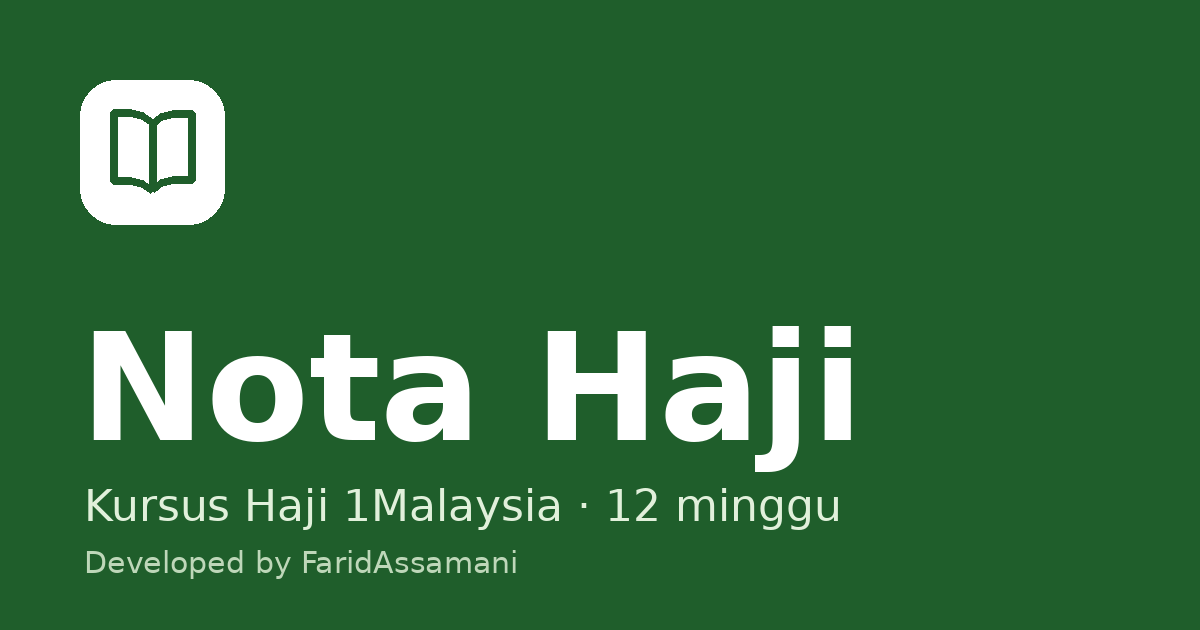
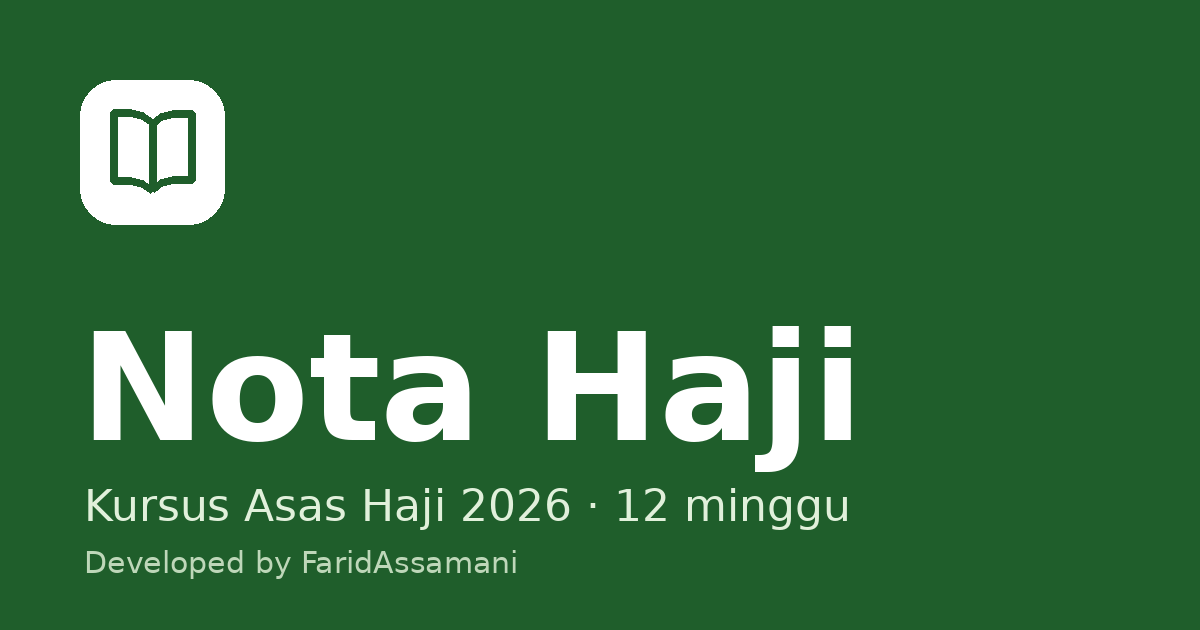
Tukar nama kursus kepada Kursus Asas Haji 2026 (app, kad pratonton, gambar)
Claude-Session: https://claude.ai/code/session_01CjDAKHwRTJRrcQau1rKi5X

Changed region(s): [[0.185, 0.754, 0.7092, 0.8444]]

diff --git a/index.html b/index.html
@@ -4,20 +4,20 @@
 <meta charset="utf-8">
 <meta name="viewport" content="width=device-width, initial-scale=1, viewport-fit=cover">
 <title>Nota Haji</title>
-<meta name="description" content="Baca nota Kursus Haji 1Malaysia (12 minggu) terus di fon atau tablet. Developed by FaridAssamani">
+<meta name="description" content="Baca nota Kursus Asas Haji 2026 (12 minggu) terus di fon atau tablet. Developed by FaridAssamani">
 <meta name="theme-color" content="#1F5E2B">
 <meta name="robots" content="noindex">
 
 <meta property="og:type" content="website">
 <meta property="og:title" content="Nota Haji">
-<meta property="og:description" content="Baca nota Kursus Haji 1Malaysia (12 minggu) terus di fon atau tablet. Developed by FaridAssamani">
+<meta property="og:description" content="Baca nota Kursus Asas Haji 2026 (12 minggu) terus di fon atau tablet. Developed by FaridAssamani">
 <meta property="og:url" content="https://farawyadal.github.io/nota-haji/">
 <meta property="og:image" content="https://farawyadal.github.io/nota-haji/og-image.png">
 <meta property="og:image:width" content="1200">
 <meta property="og:image:height" content="630">
 <meta name="twitter:card" content="summary_large_image">
 <meta name="twitter:title" content="Nota Haji">
-<meta name="twitter:description" content="Baca nota Kursus Haji 1Malaysia (12 minggu) terus di fon atau tablet. Developed by FaridAssamani">
+<meta name="twitter:description" content="Baca nota Kursus Asas Haji 2026 (12 minggu) terus di fon atau tablet. Developed by FaridAssamani">
 <meta name="twitter:image" content="https://farawyadal.github.io/nota-haji/og-image.png">
 
 <link rel="manifest" href="manifest.webmanifest">
@@ -136,7 +136,7 @@ button{cursor:pointer}
     <div class="head">
       <div class="brand">
         <div class="logo"><svg width="26" height="26" viewBox="0 0 24 24" fill="none" stroke="#fff" stroke-width="1.8" stroke-linecap="round" stroke-linejoin="round" aria-hidden="true"><path d="M12 6.5C10.2 5.2 7.8 4.6 4.5 4.6v12.9c3.3 0 5.7.6 7.5 1.9 1.8-1.3 4.2-1.9 7.5-1.9V4.6c-3.3 0-5.7.6-7.5 1.9z"/><path d="M12 6.5v12.9"/></svg></div>
-        <div><h1>Nota Haji</h1><p id="sub">Kursus Haji 1Malaysia · 12 minggu</p></div>
+        <div><h1>Nota Haji</h1><p id="sub">Kursus Asas Haji 2026 · 12 minggu</p></div>
         <button type="button" class="langbtn" id="lang" aria-label="Language / Bahasa"></button>
       </div>
       <div class="prog">
@@ -196,7 +196,7 @@ try{var raw=localStorage.getItem(KEY);if(raw){var o=JSON.parse(raw);S.links=o.li
 function save(){try{localStorage.setItem(KEY,JSON.stringify(S));}catch(e){}}
 var D={
 ms:{
-sub:'Kursus Haji 1Malaysia · 12 minggu',progLabel:'Kemajuan bacaan',weeks:'minggu',
+sub:'Kursus Asas Haji 2026 · 12 minggu',progLabel:'Kemajuan bacaan',weeks:'minggu',
 settings:'Tetapan',close:'Tutup',
 setIntro:'Anda tidak perlu guna tetapan ini untuk membaca nota. Ia hanya untuk menyimpan atau memindahkan tanda "dah baca".',
 s1h:'Pindah ke peranti lain',s1p:'Berguna bila guna tablet atau tukar fon. Tekan "Salin kod pindah" di satu peranti, hantar kod itu kepada diri sendiri (cth. melalui WhatsApp), kemudian tekan "Tampal kod pindah" di peranti lain.',
@@ -235,7 +235,7 @@ restored:'Sandaran dipulihkan dan digabungkan.',badBackup:'Fail sandaran tak sah
 months:{}
 },
 en:{
-sub:'Kursus Haji 1Malaysia · 12 weeks',progLabel:'Reading progress',weeks:'weeks',
+sub:'Kursus Asas Haji 2026 · 12 weeks',progLabel:'Reading progress',weeks:'weeks',
 settings:'Settings',close:'Close',
 setIntro:'You do not need these settings to read the notes. They are only for saving or moving your "read" marks.',
 s1h:'Move to another device',s1p:'Useful when you use a tablet or change phones. Tap "Copy transfer code" on one device, send the code to yourself (e.g. by WhatsApp), then tap "Paste transfer code" on the other device.',
@@ -466,7 +466,7 @@ function uploadPdf(file){
 function shareLink(){
   if(!S.indexId)return;
   var url=location.origin+location.pathname+'#/s/'+S.indexId;
-  var text='Assalamualaikum. Ini app Nota Haji untuk baca nota Kursus Haji 1Malaysia (12 minggu) terus di fon atau tablet. Tak perlu muat turun, tekan pautan ni dan pilih minggu:\n'+url+'\n\nDeveloped by FaridAssamani';
+  var text='Assalamualaikum. Ini app Nota Haji untuk baca nota Kursus Asas Haji 2026 (12 minggu) terus di fon atau tablet. Tak perlu muat turun, tekan pautan ni dan pilih minggu:\n'+url+'\n\nDeveloped by FaridAssamani';
   function fb(){window.prompt(t('sharePrompt'),text);}
   function copy(){
     if(navigator.clipboard&&navigator.clipboard.writeText){
